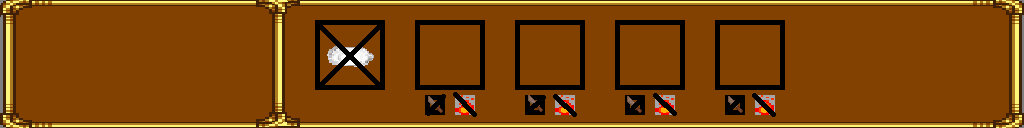
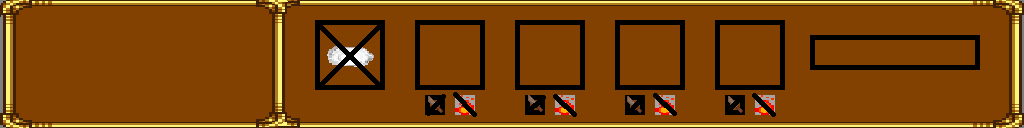
Create chopping bar

Changed region(s): [[0.7812, 0.25, 0.9688, 0.5625]]

diff --git a/src/it/unibo/oop18/cfc/Objects/Stations/ChoppingStation.java b/src/it/unibo/oop18/cfc/Objects/Stations/ChoppingStation.java
@@ -40,6 +40,9 @@ public class ChoppingStation extends AbstractStationObject {
 
     public void draw(final Graphics2D g) {
         this.graphicComponent.draw(g);
+        if(this.food.isPresent() && isCutting == true) {
+            g.drawRect(815, 680, (int)((160.0 / (this.food.get().getIngredient().getTimeToCut() * 1000)) * timer.getTimeMillis()), 24);
+        }
     }
 
     public boolean isCut() {

diff --git a/src/it/unibo/oop18/cfc/Objects/Stations/Trashcan.java b/src/it/unibo/oop18/cfc/Objects/Stations/Trashcan.java
@@ -4,7 +4,6 @@ import java.awt.Graphics2D;
 
 import it.unibo.oop18.cfc.Graphics.GraphicsComponent;
 import it.unibo.oop18.cfc.Graphics.TrashcanGraphicComponent;
-import it.unibo.oop18.cfc.Objects.Items.Item;
 import it.unibo.oop18.cfc.Tile.TrashcanTile;
 import it.unibo.oop18.cfc.Util.Position;
 import it.unibo.oop18.cfc.World.World;

diff --git a/src/it/unibo/oop18/cfc/GameState/PlayState.java b/src/it/unibo/oop18/cfc/GameState/PlayState.java
@@ -69,9 +69,9 @@ public class PlayState extends GameState {
             JukeBoxUtil.resume("themeSong");
             themeIsPlaying = 1;
         }
-        world.draw(g);
         topHud.draw(g);
         downHud.draw(g);
+        world.draw(g);
     }
 
     /**
